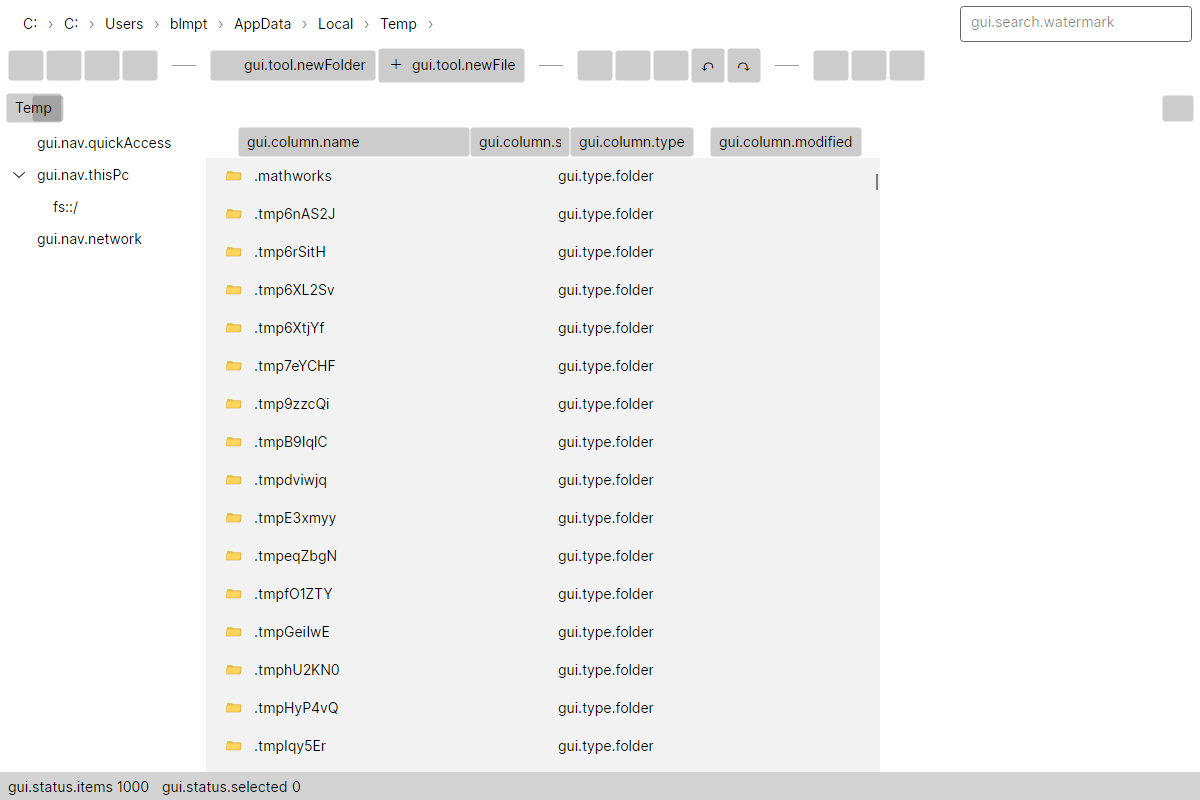
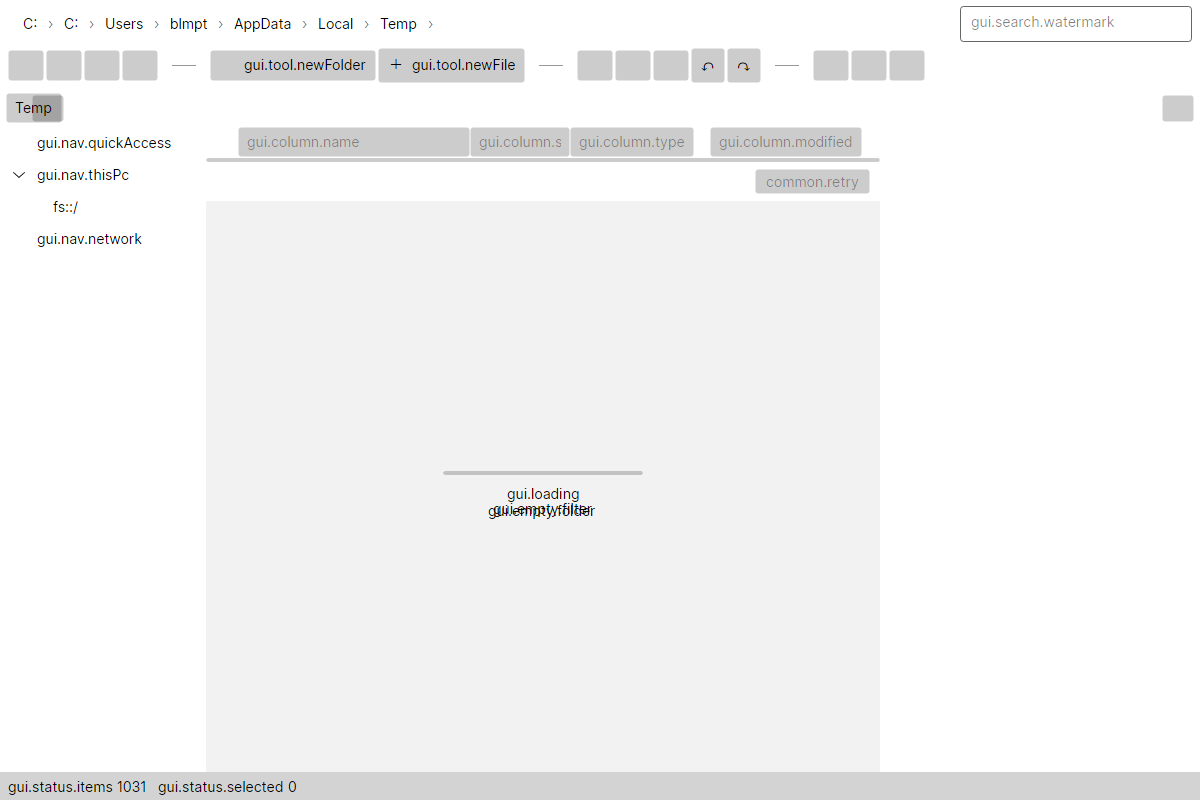
fix(ci): resolve first-run failures in SFTP, keychain, and screenshot gates
- SftpIntegrationTests: discover a writable remote dir instead of assuming
  /upload (atmoz/sftp container view differs; fixture failed at construction)
- SetCredentials_PersistsToFile: inject ProtectedFileSecretStore explicitly;
  macOS runners have a live keychain so the default store writes no .secrets file
- move screenshot gate to dedicated OpenShell.Gui.ScreenshotTests assembly:
  the skia frame-capture session corrupted the shared headless session of
  [AvaloniaFact] tests in Gui.Host.Tests when run in one process

diff --git a/tests/OpenShell.Gui.ScreenshotTests/MainWindowScreenshotTests.cs b/tests/OpenShell.Gui.ScreenshotTests/MainWindowScreenshotTests.cs
@@ -5,21 +5,33 @@ using Avalonia.ReactiveUI;
 using Avalonia.Themes.Fluent;
 using Avalonia.Threading;
 using FluentAssertions;
+using OpenShell.Commands;
+using OpenShell.Gui.Abstractions;
 using OpenShell.Gui.Host.ViewModels;
 using OpenShell.Gui.Host.Views;
+using OpenShell.Items;
+using OpenShell.Operations;
+using OpenShell.Paths;
+using OpenShell.Providers;
+using OpenShell.Providers.FileSystem;
 using Xunit;
 
-namespace OpenShell.Gui.Host.Tests;
+// IH-011: 本程序集内每个测试自建并销毁 headless+Skia 会话, 必须串行执行。
+[assembly: CollectionBehavior(DisableTestParallelization = true)]
+
+namespace OpenShell.Gui.ScreenshotTests;
 
 /// <summary>
 /// IH-011: 桌面视觉验收门禁。
 /// 以 Avalonia headless + 真实 Skia 渲染真实 <see cref="MainWindow"/>
 /// 于 1200x800 与 800x500 两种验收尺寸, 输出 PNG 到 <c>docs/screenshots/</c> 作为人工复核素材,
 /// 同时断言渲染流程无异常、产物非空——每次 CI 都会复跑该门禁。
-/// 说明: headless + Skia 是像素级真实布局/绘制, 但不含真实桌面合成器/字体回退环境;
-/// 三平台真实桌面复验仍按审计文档保留为人工步骤。
+/// 说明: headless+Skia 是像素级真实布局/绘制, 但不含真实桌面合成器/字体回退环境,
+/// 且测试环境未注入 i18n (界面标签显示键名); 三平台真实桌面人工复验仍为待办。
+/// 本项目独立于 OpenShell.Gui.Host.Tests 进程: 帧捕获会话与共享 [AvaloniaFact] 会话
+/// 不能同进程混跑 (见 csproj 注释)。
 /// </summary>
-public class DesktopVisualAcceptanceTests
+public class MainWindowScreenshotTests
 {
     public static TheoryData<int, int> AcceptanceSizes { get; } = new()
     {
@@ -31,8 +43,6 @@ public class DesktopVisualAcceptanceTests
     [MemberData(nameof(AcceptanceSizes))]
     public void MainWindow_Renders_At_Acceptance_Size(int width, int height)
     {
-        // 帧捕获要求 Skia 真实渲染 (UseHeadlessDrawing=false), 与常规 [AvaloniaFact]
-        // 的 headless-drawing 会话冲突, 因此这里单独启动一个会话。
         using var session = HeadlessUnitTestSession.StartNew(typeof(SkiaScreenshotApp));
         session.Dispatch(
             () => RenderAndCaptureAsync(width, height).GetAwaiter().GetResult(),
@@ -41,7 +51,7 @@ public class DesktopVisualAcceptanceTests
 
     private static async Task RenderAndCaptureAsync(int width, int height)
     {
-        var vm = TestAppBuilder.CreateMainViewModel();
+        var vm = CreateMainViewModel();
         await vm.InitializeTabsAsync();
 
         var window = new MainWindow { DataContext = vm, Width = width, Height = height };
@@ -69,6 +79,29 @@ public class DesktopVisualAcceptanceTests
         Dispatcher.UIThread.RunJobs();
     }
 
+    /// <summary>构造带真实 Core 服务的工作区 ViewModel (与 Gui.Host.Tests 的 TestAppBuilder 同型)。</summary>
+    private static MainViewModel CreateMainViewModel()
+    {
+        var providers = new ProviderRegistry();
+        providers.Register(new FileSystemProvider());
+
+        var commands = new CommandRegistry();
+        var operations = new OperationEngine(providers);
+
+        return new MainViewModel(
+            providers,
+            commands,
+            operations,
+            new StubDialogService(),
+            new InMemoryTaskCenter(),
+            new ItemPath { Provider = "fs", InternalPath = Path.GetTempPath().Replace('\\', '/') },
+            new OpenShell.Errors.InMemoryErrorStream(),
+            (_, _) => Task.CompletedTask,
+            () => CancellationToken.None,
+            i18n: null,
+            sessionTabs: null);
+    }
+
     private static string FindRepoRoot()
     {
         var dir = new DirectoryInfo(AppContext.BaseDirectory);
@@ -84,7 +117,6 @@ public class DesktopVisualAcceptanceTests
 
 /// <summary>
 /// 帧捕获专用 headless App: Skia 真实渲染 (UseHeadlessDrawing=false)。
-/// 与 <see cref="TestApp"/> 分离, 避免影响常规 [AvaloniaFact] 行为。
 /// </summary>
 internal sealed class SkiaScreenshotApp : Application
 {
@@ -101,4 +133,26 @@ internal sealed class SkiaScreenshotApp : Application
             .UseReactiveUI()
             .WithInterFont();
     }
+}
+
+/// <summary>烟测用对话框桩: 全部返回取消, 截图流程不触发对话框。</summary>
+internal sealed class StubDialogService : IDialogService
+{
+    public Task<DialogResult> ShowMessageBoxAsync(MessageBoxOptions options, CancellationToken ct = default)
+        => Task.FromResult(DialogResult.Cancel);
+
+    public Task<IReadOnlyList<ItemPath>?> ShowOpenFileDialogAsync(FileDialogOptions options, CancellationToken ct = default)
+        => Task.FromResult<IReadOnlyList<ItemPath>?>(null);
+
+    public Task<ItemPath?> ShowSaveFileDialogAsync(FileDialogOptions options, CancellationToken ct = default)
+        => Task.FromResult<ItemPath?>(null);
+
+    public Task<ItemPath?> ShowFolderBrowserAsync(FolderDialogOptions options, CancellationToken ct = default)
+        => Task.FromResult<ItemPath?>(null);
+
+    public Task<string?> ShowInputAsync(InputDialogOptions options, CancellationToken ct = default)
+        => Task.FromResult<string?>(null);
+
+    public Task<T?> ShowCustomAsync<T>(IDialogView<T> view, CancellationToken ct = default)
+        => Task.FromResult<T?>(default);
 }

diff --git a/tests/OpenShell.Providers.Remote.Tests/SftpIntegrationTests.cs b/tests/OpenShell.Providers.Remote.Tests/SftpIntegrationTests.cs
@@ -15,7 +15,7 @@ namespace OpenShell.Providers.Remote.Tests;
 /// <list type="bullet">
 ///   <item><c>OPENSHELL_TEST_SFTP_HOST</c> / <c>OPENSHELL_TEST_SFTP_PORT</c> (默认 22)</item>
 ///   <item><c>OPENSHELL_TEST_SFTP_USER</c> / <c>OPENSHELL_TEST_SFTP_PASSWORD</c></item>
-///   <item><c>OPENSHELL_TEST_SFTP_ROOT</c> (可写根目录, 默认 <c>/upload</c>, 即 atmoz/sftp 容器约定)</item>
+///   <item><c>OPENSHELL_TEST_SFTP_ROOT</c> (可选: 显式指定可写根目录; 缺省自动探测工作目录与 upload/uploads)</item>
 /// </list>
 /// CI 中由 <c>remote-integration</c> 作业提供隔离 OpenSSH 容器。
 /// 主机密钥策略: 当前实现沿用 SSH.NET 默认的首次信任 (accept-all);
@@ -29,10 +29,9 @@ public class SftpIntegrationTests : IDisposable
     public SftpIntegrationTests()
     {
         _provider = new SftpProvider(new EnvCredentialProvider());
-        _testDir = $"{SftpTestEnv.Root}/os-it-{Guid.NewGuid():N}";
         using var client = CreateDirectClient();
         client.Connect();
-        client.CreateDirectory(_testDir);
+        _testDir = EnsureWritableTestDir(client);
     }
 
     public void Dispose()
@@ -159,6 +158,48 @@ public class SftpIntegrationTests : IDisposable
         await stream.WriteAsync(content);
     }
 
+    /// <summary>
+    /// 发现可写测试目录: 依次尝试显式配置的 Root、登录工作目录 (chroot 感知)、
+    /// atmoz/sftp 惯例的 upload / uploads 子目录; 第一个能 mkdir 成功的位置胜出。
+    /// CI 首跑证明硬编码 /upload 不存在于容器视图, 因此不对服务器布局做假设。
+    /// </summary>
+    private static string EnsureWritableTestDir(SftpClient client)
+    {
+        var home = (client.WorkingDirectory ?? "").TrimEnd('/');
+        if (home.Length == 0) home = "/";
+        var unique = "os-it-" + Guid.NewGuid().ToString("N");
+
+        var parents = new List<string>();
+        var configured = Environment.GetEnvironmentVariable("OPENSHELL_TEST_SFTP_ROOT");
+        if (!string.IsNullOrWhiteSpace(configured)) parents.Add(configured.TrimEnd('/'));
+        parents.Add(home);
+        foreach (var sub in new[] { "upload", "uploads" })
+        {
+            var dir = home == "/" ? "/" + sub : home + "/" + sub;
+            if (!parents.Contains(dir)) parents.Add(dir);
+        }
+
+        foreach (var parent in parents)
+        {
+            var dir = (parent == "/" ? "" : parent) + "/" + unique;
+            try
+            {
+                // 子目录 (upload/uploads) 可能尚不存在; "已存在/无权限" 均不影响下一步试探。
+                try { client.CreateDirectory(parent); }
+                catch (Renci.SshNet.Common.SshException) { /* 继续直接试 mkdir 测试目录 */ }
+                client.CreateDirectory(dir);
+                return dir;
+            }
+            catch (Renci.SshNet.Common.SshException)
+            {
+                // SftpPermissionDeniedException / SftpPathNotFoundException 等都进入下一个候选。
+            }
+        }
+
+        throw new InvalidOperationException(
+            $"SFTP server exposes no writable test directory (tried: {string.Join(", ", parents)}).");
+    }
+
     private static void DeleteRecursive(SftpClient client, string path)
     {
         foreach (var entry in client.ListDirectory(path))
@@ -196,7 +237,6 @@ public static class SftpTestEnv
     public static int Port => int.TryParse(Get("OPENSHELL_TEST_SFTP_PORT"), out var p) && p > 0 ? p : 22;
     public static string? User => Get("OPENSHELL_TEST_SFTP_USER");
     public static string? Password => Get("OPENSHELL_TEST_SFTP_PASSWORD");
-    public static string Root => Get("OPENSHELL_TEST_SFTP_ROOT") ?? "/upload";
 
     public static bool IsConfigured
         => !string.IsNullOrEmpty(Host) && !string.IsNullOrEmpty(User) && !string.IsNullOrEmpty(Password);

diff --git a/tests/OpenShell.Providers.Remote.Tests/InMemoryCredentialProviderTests.cs b/tests/OpenShell.Providers.Remote.Tests/InMemoryCredentialProviderTests.cs
@@ -187,7 +187,11 @@ public class InMemoryCredentialProviderTests : IDisposable
     [Fact]
     public void SetCredentials_PersistsToFile()
     {
-        var provider = CreateProvider();
+        // IH-012: macOS 默认存储改为 Keychain；本测试专门断言"受保护文件"路径，
+        // 因此显式注入 ProtectedFileSecretStore，不依赖平台默认选择。
+        var secretFilePath = CredFilePath + ".secrets";
+        var provider = new InMemoryCredentialProvider(
+            CredFilePath, new ProtectedFileSecretStore(secretFilePath));
         provider.SetCredentials(new SftpCredentials
         {
             Host = "example.com",
@@ -203,9 +207,8 @@ public class InMemoryCredentialProviderTests : IDisposable
         json.Should().Contain("alice");
         json.Should().NotContain("s3cret");
         json.Should().Contain("2222");
-        var secretFile = CredFilePath + ".secrets";
-        File.Exists(secretFile).Should().BeTrue();
-        File.ReadAllText(secretFile).Should().NotContain("s3cret");
+        File.Exists(secretFilePath).Should().BeTrue();
+        File.ReadAllText(secretFilePath).Should().NotContain("s3cret");
     }
 
     // ---- ListCredentials ----

diff --git a/docs/improvement-hardening-tasks.md b/docs/improvement-hardening-tasks.md
@@ -28,3 +28,4 @@
 - 2026-08-31：第一轮收尾：构建 0 警告/0 错误；全解决方案测试 2147 通过、4 跳过、0 失败。跳过项均有明确基础设施或范围原因，详见审计报告。
 - 2026-08-31：第二轮全部落地。IH-006：`SftpIntegrationTests`（6 个真实服务器用例：存在/缺失、列举、取消、8MB 往返、故障注入重连、错误口令鉴权分类）+ CI `remote-integration` 作业（atmoz/sftp 容器）；本地无服务器时条件 Skip，真实执行由 CI 完成（本地仅验证编译与 Skip 行为，未实测容器）。IH-008：Evaluator 增加 `BlockSafe` 同步桥——带同步上下文（GUI）时把等待整体搬到线程池，死锁回归测试（未泵送上下文 + 10s 守卫）通过并解除 Skip。IH-009：引入 SixLabors.ImageSharp 3.1.12（纯托管），图片预览支持 PNG/JPEG/GIF/BMP/WEBP 解码 + 4096px 安全缩略 + 64MB 输入上限，损坏/超限显式 NotSupported；视频经 ffmpeg 提取首帧缩略图（缺失时降级元数据）；格式矩阵合规测试解除 Skip（8/8 通过）。IH-010：`MultiWindowLifecycleTests` 3 例（独立 DataContext、状态隔离、关窗不破坏他窗）。IH-011：headless+Skia 双尺寸渲染门禁（`DesktopVisualAcceptanceTests`，产物 docs/screenshots/desktop-*.png）+ CI 覆盖率门禁（基线 46.6%，阈值 43）+ GUI 自动化门禁步骤；**保留 [~]**：三平台真实桌面人工复验仍未做，且截图为 headless 渲染（测试环境无 i18n 注入，标签显示键名）。IH-012：macOS Keychain 存储（/usr/bin/security，含 CI 无钥匙串会话探测回退）+ 工厂选择测试 6 例。IH-013：CLI 启动输出凭据库加载告警 + 损坏文件回归测试。
 - 2026-08-31：第二轮最终验证：`dotnet build OpenShell.slnx` 0 警告/0 错误；全解决方案测试 2161 通过、8 跳过、0 失败（跳过均为需真实服务器的条件集成用例，配置环境变量后即执行）。
+- 2026-08-31：配置 origin 并首推 GitHub。CI 首跑暴露三处真实环境问题并全部修复：① atmoz/sftp 容器内 `/upload` 假设不成立（fixture 构造即失败）→ 改为可写目录自动探测（显式 Root → 登录工作目录 → upload/uploads）；② macOS runner 钥匙串真实可用（IH-012 现场生效，凭据实际写入 Keychain），但旧测试 `SetCredentials_PersistsToFile` 断言 `.secrets` 文件存在被打破 → 该测试显式注入 ProtectedFileSecretStore，与平台默认解耦；③ 截图门禁的 headless+Skia 会话与 Gui.Host.Tests 共享静态会话同进程互踩（`IWindowingPlatform` 丢失，随机拖垮并行 [AvaloniaFact]）→ 截图测试迁至独立项目 `tests/OpenShell.Gui.ScreenshotTests`（独立 testhost 进程）+ 程序集内禁并行。修复后本地全量 2161 通过 / 8 跳过 / 0 失败。

diff --git a/docs/improvement-hardening-audit.md b/docs/improvement-hardening-audit.md
@@ -55,9 +55,9 @@
 
 ## 五、未完成项与验证边界（第二轮后更新）
 
-- IH-006 本地未实测容器：本机无 docker、WSL 安装 sshd 需密码，集成用例真实执行依赖 CI `remote-integration` 作业；本地已验证条件 Skip 与编译。若 CI 首次运行暴露 atmoz/sftp 行为差异（如 `/upload` 路径），需按失败日志微调环境变量。
-- IH-011 剩余人工步骤：三平台真实桌面 1200x800 / 800x500 复验仍未做；`docs/screenshots/` 中的产物是 headless+Skia 渲染（真实布局/绘制，但无桌面合成器，且测试环境未注入 i18n，界面标签显示键名）。
+- IH-006 CI 首跑发现 atmoz/sftp 容器内 `/upload` 目录假设不成立（fixture 构造即 SftpPathNotFoundException），已改为可写目录自动探测（显式 Root → 登录工作目录 → upload/uploads），待下一次 CI 验证真实读写全链路。
+- IH-011 剩余人工步骤：三平台真实桌面 1200x800 / 800x500 复验仍未做；`docs/screenshots/` 中的产物是 headless+Skia 渲染（真实布局/绘制，但无桌面合成器，且测试环境未注入 i18n，界面标签显示键名）。截图门禁会话曾与 Gui.Host.Tests 共享 headless 静态会话互踩（`IWindowingPlatform` 丢失），已隔离为独立测试项目 `tests/OpenShell.Gui.ScreenshotTests`。
 - IH-015（新）：SFTP 主机密钥固定（host-key pinning）未实现——当前沿用 SSH.NET 首次信任（TOFU），存在中间人风险；需设计凭据级指纹字段与用户确认流程。
-- macOS 的 `codesign` 命令仍未在 macOS 主机现场执行（实现为绝对路径 + ArgumentList + 取消处理）；Keychain 路径同理依赖系统 `security` 工具行为。
+- macOS Keychain 已在 macOS runner 现场验证可用（CI 首跑中凭据实际写入钥匙串而非文件，探测-回退逻辑按设计工作）；`codesign` 命令路径仍未在 macOS 主机现场执行（实现为绝对路径 + ArgumentList + 取消处理）。
 - Evaluator 其余 9 处 `GetAwaiter().GetResult()` 已全部经 `BlockSafe` 保护；把 shell 改为端到端异步执行仍是未来大改，不在本轮范围。
 - 最终验证（第二轮）：`dotnet build OpenShell.slnx` 0 警告/0 错误；全解决方案测试 **2161 通过、8 跳过、0 失败**（跳过 = 2 个旧契约测试需真实服务器 + 6 个 `SftpIntegrationTests` 条件集成用例）。
